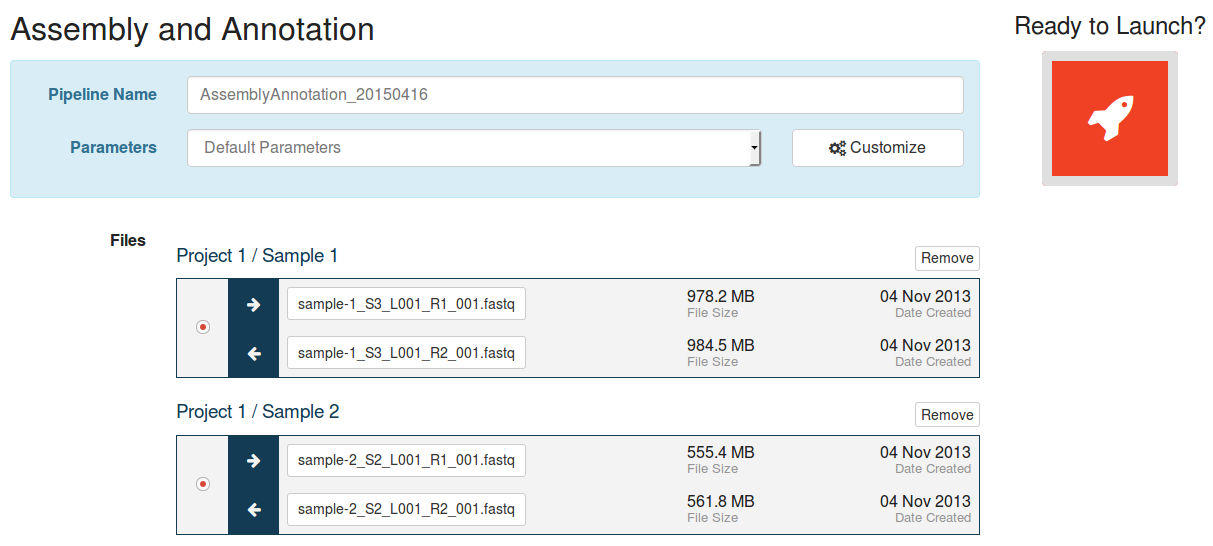
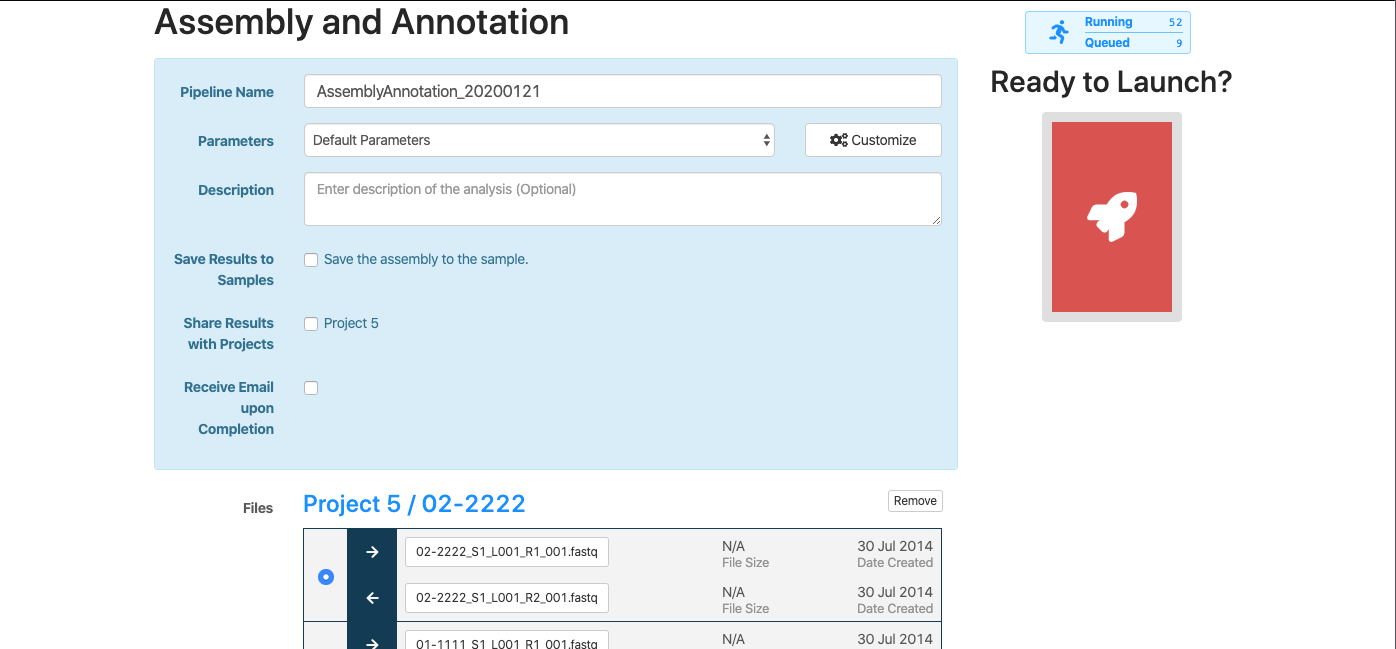
Updated documentation and added a tooltip

diff --git a/src/main/webapp/resources/js/components/AnalysesQueue.jsx b/src/main/webapp/resources/js/components/AnalysesQueue.jsx
@@ -1,5 +1,5 @@
 import React, { useEffect, useState } from "react";
-import { Tag } from "antd";
+import { Tag, Tooltip } from "antd";
 import { fetchAnalysesQueueCounts } from "./../apis/analysis/analysis";
 import { FontAwesomeIcon } from "@fortawesome/react-fontawesome";
 import { faRunning } from "@fortawesome/free-solid-svg-icons";
@@ -36,35 +36,45 @@ export function AnalysesQueue({}) {
   }, [fetchAnalysesQueueCounts]);
 
   return (
-    <Tag color={"blue"}>
-      <div
-        style={{
-          width: 150,
-          display: "flex",
-          justifyContent: "space-between",
-          alignContent: "center"
-        }}
-      >
-        <FontAwesomeIcon
-          icon={faRunning}
-          size="2x"
-          fixedWidth
-          style={{ flex: 1, display: "inline-block", margin: `${SPACE_XS} 0` }}
-        />
+    <Tooltip title={i18n("AnalysesQueue.title")} placement={"bottomRight"}>
+      <Tag color={"blue"}>
+        <div
+          style={{
+            width: 150,
+            display: "flex",
+            justifyContent: "space-between",
+            alignContent: "center"
+          }}
+        >
+          <FontAwesomeIcon
+            icon={faRunning}
+            size="2x"
+            fixedWidth
+            style={{
+              flex: 1,
+              display: "inline-block",
+              margin: `${SPACE_XS} 0`
+            }}
+          />
 
-        <table>
-          <tbody>
-            <tr style={{ borderBottom: `1px solid ${blue4}` }}>
-              <LabelTD>{i18n("AnalysesQueue.running")}</LabelTD>
-              <ValueTD className="t-running-counts">{formatNumber(running)}</ValueTD>
-            </tr>
-            <tr>
-              <LabelTD>{i18n("AnalysesQueue.queued")}</LabelTD>
-              <ValueTD className="t-queue-counts">{formatNumber(queued)}</ValueTD>
-            </tr>
-          </tbody>
-        </table>
-      </div>
-    </Tag>
+          <table>
+            <tbody>
+              <tr style={{ borderBottom: `1px solid ${blue4}` }}>
+                <LabelTD>{i18n("AnalysesQueue.running")}</LabelTD>
+                <ValueTD className="t-running-counts">
+                  {formatNumber(running)}
+                </ValueTD>
+              </tr>
+              <tr>
+                <LabelTD>{i18n("AnalysesQueue.queued")}</LabelTD>
+                <ValueTD className="t-queue-counts">
+                  {formatNumber(queued)}
+                </ValueTD>
+              </tr>
+            </tbody>
+          </table>
+        </div>
+      </Tag>
+    </Tooltip>
   );
 }

diff --git a/doc/user/user/pipelines/index.md b/doc/user/user/pipelines/index.md
@@ -41,6 +41,13 @@ You can search for individual samples within the cart use the 'cart search' fiel
 
 Search terms can match partial samples names.
 
+Running and Queued Counts
+------------
+
+You can get a snapshot of the current state of the analysis server in the page menu bar.  Inside the blue box are the counts for the number of running and queued analyses.  The longer the queue, the longer time it will take to start your analysis.
+
+![Queue Counts](images/queue-counts.png)
+
 Selecting a pipeline
 --------------------
 
